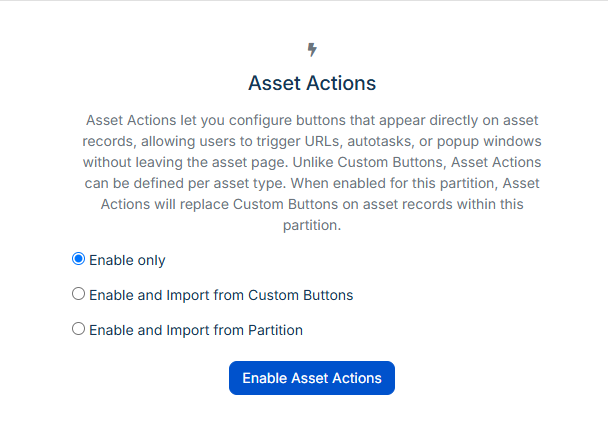
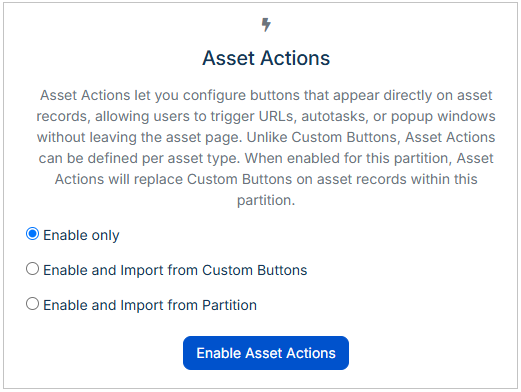
Asset Actions
* Updated images.
* Move actions on asset types from Common Actions to Manage Asset Types.
* Removed duplicated information.

diff --git a/servicemanager-config/assets/common-asset-actions.md b/servicemanager-config/assets/common-asset-actions.md
@@ -16,26 +16,9 @@ The Common Asset Actions is a collection of asset actions that are available for
 * Know how to access the [Service Manager Configuration](/servicemanager-config/index#access-service-manager-configuration).
 * Understand how [asset partitions](/servicemanager-config/assets/manage-partitions) and [asset types](/servicemanager-config/assets/manage-asset-types) are structured.
 
-## Action scope
-
-There are three kinds of scope. All three use the same configuration form — the difference is where you create them and what scope they are assigned. Scope is set when an action is created and cannot be changed afterwards.
-
-* **Partition-scoped actions:** Belong to the partition and can be linked to any asset type within it, regardless of class. Created and managed from the Asset Actions panel inside Manage Asset Types. These are sometimes called *common actions* because they are shared across multiple types. Use this scope for actions that should be available across many or all types in the partition.
-* **Class-scoped actions:** Belong to the partition and a specific asset class (for example, Computer or Software). They can only be linked to types of that class within the partition. Use this scope when an action only makes sense for a particular kind of asset.
-* **Type-specific actions:** Belong to a single asset type and are created directly from that type's **Actions** tab. They are not shared with any other type, and do not use the scope picker described above.
-
-### How scope affects linking
-
-The scope of an action controls which types appear when you link it:
-
-* **Partition-scoped actions** — the type picker and **Link with All Types** operate across all asset types in the partition.
-* **Class-scoped actions** — the type picker and **Link with All Types** show and link only types whose class matches the action's class. Types of other classes are excluded automatically.
-
-Similarly, when viewing a type's **Actions** tab and using **Link Common Action**, only actions relevant to that type are shown: partition-scoped actions for the type's partition, and class-scoped actions whose class matches the type's class. Actions from other partitions or other classes are never shown.
-
 ## Enabling Asset Actions
 
-Asset Actions must be enabled separately for each partition. Until enabled, the feature is inactive and Custom Buttons continue to appear for assets in that partition.
+Asset Actions must be enabled separately for each partition. Until enabled, the feature is inactive and [Custom Buttons](/servicemanager-user-guide/asset-management/asset-details#custom-buttons) continue to appear for assets in that partition.
 
 ![Enable Asset Actions](/_books/servicemanager-config/assets/images/asset-actions-enable.png)
 
@@ -43,44 +26,104 @@ Asset Actions must be enabled separately for each partition. Until enabled, the 
 
 1. Navigate to **Configuration > Service Manager > Assets > Manage Types**.
 1. Select the partition you want to enable Asset Actions for.
-1. In the right-hand panel, select **Asset Actions**. If the feature has not yet been enabled for this partition, the feature overview panel is shown.
+1. Below the partition name, select **Common Asset Actions**. If the feature has not yet been enabled for this partition, the feature overview panel is shown.
 1. Choose how you want to start, then select **Enable Asset Actions**:
-    * **Enable only** — enables the feature with an empty action list. You build your actions from scratch.
-    * **Enable and Import from Custom Buttons** — enables the feature and immediately imports your existing Custom Buttons as Asset Actions. See [Importing from Custom Buttons](#importing-from-custom-buttons) for details of how the import works.
-    * **Enable and Import from Partition** — enables the feature and copies all partition-scoped and class-scoped actions from another partition into this one. Select the source partition from the dropdown. Only partitions that already have actions are shown.
+    * **Enable only**: Enables the feature with an empty action list. You build your actions from scratch.
+    * **Enable and Import from Custom Buttons**: Enables the feature and immediately imports your existing Custom Buttons as Asset Actions. See [Importing from Custom Buttons](#importing-from-custom-buttons) for details of how the import works.
+    * **Enable and Import from Partition**: Enables the feature and copies all partition-scoped and class-scoped actions from another partition into this one. Select the source partition from the dropdown. Only partitions that already have actions are shown.
 
-Once enabled for a partition, Asset Actions are rendered in place of Custom Buttons on asset records within that partition. Custom Buttons are not deleted — they remain in the Custom Buttons configuration — but they no longer appear while Asset Actions is active.
+Once enabled for a partition, Asset Actions are rendered in place of Custom Buttons on asset records within that partition. Custom Buttons are not deleted. They remain in the Custom Buttons configuration, but they no longer appear while Asset Actions is active.
 
-### Resetting or disabling
+## Creating a common action
 
-From the Asset Actions panel toolbar, select **Clear All** to delete all partition-scoped and class-scoped actions for this partition and disable the feature. You are asked to type **DELETE** to confirm. Type-specific actions on individual asset types are not affected. After clearing, Custom Buttons resume appearing for assets in this partition.
+Start by selecting the partition where you want to create the action. Below the partition name, select the Common Asset Actions panel
+
+1. In the Common Asset Actions panel, select **+ Add Action**.
+1. The details form opens. Set the scope (see [Action scope](#scope)), then fill in the display fields, action type settings, and options.
+1. Select **Save**. The action is created and appears in the list.
+1. The action now exists but is not linked to any asset types. Go to the relevant asset type's **Actions** tab and use **Add > Link Common Action** to link it, or select **Edit** on the action and use the **Linked Types** tab to link it to one or more types.
+
+> **Note**: After saving, an action does not appear on any asset records until it is linked to one or more asset types.
+
+### Scope
+
+The scope determines where the action can be used. The scope can only be set when the **Asset Action** is being created and cannot be changed afterwards.
+
+* **Partition**: These actions belong to the entire partition and can be linked to any asset type within it, regardless of class. Use this scope for actions that should be available across many or all asset types in the partition.
+
+* **Class**: These actions belong to a specific class within the partition. They can only be linked to types of that class within the partition. Use this scope when an action only makes sense for a particular class of asset.
+
+> **Note**: Asset actions can also be created on an individual asset type.  These are not shared and can't be linked with any other asset type.
+
+### Display
+
+| Field | Description |
+| :--- | :--- |
+| Label | The text shown on the button or in the drop-down list. Required unless an icon is set. |
+| Description | Text shown when a user hovers over the button. Optional but recommended for less obvious actions. |
+| Button Style | The color style for the button: Default (gray), Primary (blue), Success (green), Danger (red), Warning (yellow), Info (light blue). |
+| Icon | An icon displayed alongside the button label, chosen using the icon picker. Optional. |
+
+### Action
+
+#### URL
+
+Opens a URL in a new browser tab. The URL can contain `{{fieldName}}` variable tokens. Use this to link to an external system, a deep link elsewhere in the platform, or any web address relevant to the asset.
+
+If the URL does not include a protocol (`://`), `http://` is automatically prepended at runtime.
+
+**Required:** URL field.
+
+The optional **Activity Message** field (under Options) allows a note to be written to the asset's activity stream each time this action is triggered. The message supports variable tokens and is written after the URL is opened.
+
+#### Auto Task
+
+Triggers an Auto Task when the user selects the button. The asset's URN is automatically passed as the `objectRefUrn` input parameter so the Auto Task knows which asset it is operating on.
+
+| Setting | Description |
+| :--- | :--- |
+| Auto Task Name *(required)* | The exact name of the Auto Task process to trigger. Select from the dropdown list of available processes. |
+| Open popup with Auto Task progress | Shows a modal window that tracks the Auto Task as it runs, matching the progress view shown by the existing Custom Buttons feature. |
+| Display Auto Task progress in timeline | Posts a link to the started Auto Task in the asset's activity stream, giving a record of when the action was triggered. |
+| Prompt for confirmation before running | Shows a confirmation prompt before the Auto Task starts. You can customize the prompt text (for example, *"Are you sure you want to retire this asset?"*). |
+| Additional input parameters | A table of extra key/value pairs passed as BPM input parameters alongside the standard asset fields. Values support `{{fieldName}}` variable tokens. Parameters named `objectRefUrn`, `entityApp`, `entityId`, or `entityName` are reserved and are always provided automatically — do not add them here. |
+
+#### Popup
+
+Opens a URL inside a modal popup window within the application, rather than in a new tab. The URL can contain `{{fieldName}}` variable tokens.
+
+| Setting | Description |
+| :--- | :--- |
+| URL *(required)* | The URL to load inside the popup. Supports asset field variable tokens. |
+| Popup Title | Title shown in the popup window header. Supports variable tokens. |
+| Size | Small, Medium, Large, or Custom. Choose Custom to set explicit width and height dimensions. Units supported: px, %, em, rem, vw, vh. |
+| Enable scrollbars | Whether the popup content area shows scrollbars when content overflows. |
+
+### Options
+
+| Option | Description |
+| :--- | :--- |
+| Add message to activity stream | When a URL action runs, writes an entry to the asset's activity stream. The message text is set in the **Activity Message** field below it and supports asset field variable tokens. |
+| Automatically link to new Asset Types | Partition-scoped and class-scoped actions only. When checked, this action is automatically linked whenever a new asset type is created within the partition. For class-scoped actions, it only links to types whose class matches. This setting also applies when types are moved into the partition from another partition. See [Moving types between partitions](#moving-types-between-partitions). |
+
+## Resetting or disabling
+
+From the Asset Actions panel toolbar, select **Clear All** to delete all actions for this partition and disable the feature. You are asked to type **DELETE** to confirm. Type-specific actions on individual asset types are not affected. After clearing, Custom Buttons resume appearing for assets in this partition.
 
 ::: warning
 **Clear All is permanent.** Clearing removes all partition-level and class-level actions for this partition. This cannot be undone. Type-specific actions on individual asset types are unaffected.
 :::
 
-## Managing partition actions
+## Managing actions
 
-Once Asset Actions is enabled for a partition, the Asset Actions panel shows a list of all partition-scoped and class-scoped actions for that partition. From here you can create, edit, delete, and import actions.
+Once Asset Actions is enabled for a partition, the Asset Actions panel shows a list of all actions for that partition. From here you can create, edit, delete, and import actions.
 
 ![Manage Partition Actions](/_books/servicemanager-config/assets/images/asset-actions-partition-action.png)
 
-### Creating an action
+### Action options
 
-1. In the Asset Actions panel, select **Add Action**.
-1. The inline edit form opens. Set the scope (see [Action scope](#action-scope)), then fill in the display fields, action type settings, and options.
-1. Select **Save**. The action is created and appears in the list.
-1. The action now exists but is not linked to any asset types. Go to the relevant asset type's **Actions** tab and use **Add > Link Common Action** to link it, or select **Edit** on the action and use the **Linked Types** tab to link it to one or more types.
-
-After saving, an action does not appear on any asset records until it is linked to one or more types — the exception is actions with **Automatically associate to new Asset Types** checked, which are linked automatically when a new type is created.
-
-### Editing a partition or class action
-
-Select **Edit** on any action row in the list. The full-page edit form opens in a new tab, showing a **Details** tab and a **Linked Types** tab. Changes to the configuration (label, URL, icon, and so on) are shared across all types that use the action. Scope (Partition or Class) is shown as read-only here — it's set when the action is first created and cannot be changed; delete the action and create a new one if you need a different scope.
-
-### Deleting an action
-
-Select **Remove** on any action row and confirm in the dialog. Deleting an action removes it from all linked asset types immediately. This cannot be undone.
+* **Editing an action**: Select the **Edit** icon or the name of the action on any row in the list. This opens the **Details** and **Linked Asset Types** options. Scope (Partition or Class) is shown as read-only as it can only be set on creation and can't be changed.
+* **Deleting an action**: Select the **Remove** icon on any action row and confirm in the dialog. Deleting an action removes it from all linked asset types immediately. This cannot be undone.
 
 ### Importing from Custom Buttons
 
@@ -97,147 +140,11 @@ A progress bar tracks the import. Once complete, the Import button is hidden for
 
 From the toolbar, select **Import > Import from Partition** — shown only when at least one other partition already has actions defined. Select the source partition and select **Import**. All partition-scoped and class-scoped actions from the source are copied into this partition. Copied actions are not linked to any types automatically — link them as needed after the import.
 
-## Configuring an action
-
-The action form — both the inline partition panel editor and the full-page editor opened from the edit button — contains three configuration sections: Display, Action, and Options.
-
-![Configure Actions](/_books/servicemanager-config/assets/images/asset-actions-configure-action.png)
-
-### Display
-
-| Field | Description |
-| :--- | :--- |
-| Scope | Shown when creating a new action. Select **Partition** or **Class**; for Class, also select the asset class from the dropdown that appears. Read-only when editing an existing action. |
-| Label *(required unless an icon is set)* | The text shown on the button. |
-| Description | Text shown when a user hovers over the button. Optional but recommended for less obvious actions. |
-| Button Style | The color style for the button: Default (gray), Primary (blue), Success (green), Danger (red), Warning (yellow), Info (light blue). |
-| Icon | A FontAwesome icon displayed alongside the button label, chosen using the icon picker. Optional. |
-
-### Action
-
-Select the action type and complete the fields that appear for it. See [Action types](#action-types) for details on each type.
-
-### Options
-
-| Option | Description |
-| :--- | :--- |
-| Add message to activity stream | When a URL action runs, writes an entry to the asset's activity stream. The message text is set in the **Activity Message** field below it and supports asset field variable tokens. |
-| Automatically associate to new Asset Types | Partition-scoped and class-scoped actions only. When checked, this action is automatically linked whenever a new asset type is created within the partition. For class-scoped actions, it only links to types whose class matches. This setting also applies when types are moved into the partition from another partition — see [Moving types between partitions](#moving-types-between-partitions). |
-
 ### Using asset field variables
 
 In URL and message fields, select the **Insert variable** button next to the input and select a field from the dropdown. This inserts a token in the format `{{fieldName}}` — for example `{{h_pk_asset_id}}` to pass the asset's unique ID to an external system, or `{{h_name}}` to include the asset name in an activity stream message. At runtime the platform replaces the token with the actual value from the asset record being viewed.
 
 If an action is class-scoped and a field variable you have used is not available for the selected class, a warning panel appears in the form highlighting the affected fields. Review and update these before saving to avoid broken substitutions at runtime.
-
-## Action types
-
-### URL
-
-Opens a URL in a new browser tab. The URL can contain `{{fieldName}}` variable tokens. Use this to link to an external system, a deep link elsewhere in the platform, or any web address relevant to the asset.
-
-If the URL does not include a protocol (`://`), `http://` is automatically prepended at runtime.
-
-**Required:** URL field.
-
-The optional **Activity Message** field (under Options) allows a note to be written to the asset's activity stream each time this action is triggered. The message supports variable tokens and is written after the URL is opened.
-
-### Auto Task
-
-Triggers an Auto Task when the user selects the button. The asset's URN is automatically passed as the `objectRefUrn` input parameter so the Auto Task knows which asset it is operating on.
-
-| Setting | Description |
-| :--- | :--- |
-| Auto Task Name *(required)* | The exact name of the Auto Task process to trigger. Select from the dropdown list of available processes. |
-| Open popup with Auto Task progress | Shows a modal window that tracks the Auto Task as it runs, matching the progress view shown by the existing Custom Buttons feature. |
-| Display Auto Task progress in timeline | Posts a link to the started Auto Task in the asset's activity stream, giving a record of when the action was triggered. |
-| Prompt for confirmation before running | Shows a confirmation prompt before the Auto Task starts. You can customize the prompt text (for example, *"Are you sure you want to retire this asset?"*). |
-| Additional input parameters | A table of extra key/value pairs passed as BPM input parameters alongside the standard asset fields. Values support `{{fieldName}}` variable tokens. Parameters named `objectRefUrn`, `entityApp`, `entityId`, or `entityName` are reserved and are always provided automatically — do not add them here. |
-
-### Popup
-
-Opens a URL inside a modal popup window within the application, rather than in a new tab. The URL can contain `{{fieldName}}` variable tokens.
-
-| Setting | Description |
-| :--- | :--- |
-| URL *(required)* | The URL to load inside the popup. Supports asset field variable tokens. |
-| Popup Title | Title shown in the popup window header. Supports variable tokens. |
-| Size | Small, Medium, Large, or Custom. Choose Custom to set explicit width and height dimensions. Units supported: px, %, em, rem, vw, vh. |
-| Enable scrollbars | Whether the popup content area shows scrollbars when content overflows. |
-
-## Actions on an asset type
-
-Navigate to **Manage Types**, select a type, and select the **Actions** tab. This tab has two panels:
-
-![Action Tab](/_books/servicemanager-config/assets/images/asset-actions-action-tab.png)
-
-* **Preview panel** (top) — search for an asset of this type using the autocomplete picker and see a live preview of how the action buttons render on that asset's record. Toggle between **Full** and **Compact** width to preview both the expanded button layout and the collapsed "Actions" dropdown.
-* **Action list** (below) — the full list of actions and groups for this type, in their current display order. Drag rows to reorder.
-
-### Adding an action
-
-Select **Add**. A dropdown appears with three options:
-
-* **Create Type Action** — opens the action configuration popup. Fill in the form and save to create a new action that belongs exclusively to this asset type.
-* **Link Common Action** — opens a picker showing common actions that can be linked to this type. The list is filtered automatically to only show partition-scoped actions belonging to this type's partition, and class-scoped actions whose class matches this type's class. Actions from other partitions or that belong to a different class are never shown. Select one or more and select **Link Selected**. A progress bar tracks the operation when linking multiple actions.
-* **Add Group** — prompts for a group name and creates a new action group. See [Action groups and order](#action-groups-and-order).
-
-### Editing an action on a type
-
-Select **Edit** on any action row:
-
-* **Type-specific actions** — the configuration popup opens inline. Changes affect only this type.
-* **Partition-scoped and class-scoped actions** — selecting **Edit** opens the full-page edit form in a new browser tab. You are editing the shared configuration that every linked type uses. Ordering, grouping, and position on this specific type are controlled separately, from the action list on the type's Actions tab.
-
-### Linking visibility
-
-A partition-scoped or class-scoped action only appears on an asset type if it has been explicitly linked to that type. Linking creates a position record; without one, the action is not visible on those assets.
-
-The **Automatically associate to new Asset Types** toggle (on the action form, under Options) controls what happens when a new asset type is created:
-
-* **Checked** — a position record is automatically created for this action on the new type. The action is visible immediately. For class-scoped actions, auto-association only applies when the new type's class matches the action's class.
-* **Unchecked** — no automatic link. The action does not appear on the new type until explicitly linked from the type's Actions tab.
-
-The **Linked Types** tab on the full-page action editor shows all types currently linked to the action. Three toolbar operations are available:
-
-* **Link to Type** — opens a type picker to link the action to one or more types. For partition-scoped actions, all types in the partition are shown (filterable by category). For class-scoped actions, only types whose class matches the action's class are shown.
-* **Link with All Types** — links the action to every eligible type not already linked. For partition-scoped actions, this covers all types in the partition. For class-scoped actions, only types of the matching class are linked.
-* **Remove from All Types** — removes all links. The action no longer appears on any type.
-
-### Removing an action from a type
-
-Select the **Unlink** / **Delete** button on an action row and confirm in the dialog. The behavior differs by action scope:
-
-* **Type-specific actions** — permanently deleted.
-* **Partition-scoped and class-scoped actions** — unlinked from this type only. The action continues to exist and remains visible on other types it is linked to.
-
-## Action groups and order
-
-### Action groups
-
-Groups let you organize multiple actions into a single dropdown button on the asset record. Instead of showing several individual buttons, the asset displays one button with the group's name; selecting it opens a menu listing all actions in that group.
-
-![Action Groups](/_books/servicemanager-config/assets/images/asset-actions-action-group.png)
-
-Groups are per-type: the same action can be in different groups (or no group) on different asset types. Grouping is configured from each type's **Actions** tab and does not affect other types.
-
-**To create a group:**
-
-1. On the type's **Actions** tab, select **Add** and choose **Add Group**.
-1. Enter the group name. This becomes the label on the dropdown button on the asset record.
-1. Drag existing action rows into the group, or use **Add** within the group to create or link actions directly inside it.
-
-**To rename a group:** Select **Rename** on the group header, enter a new name in the inline input, and press Enter or select away. The change saves immediately.
-
-**To delete a group:** Select **Delete** on the group header and confirm. Actions inside the group are not deleted — they move out of the group and appear ungrouped in the list.
-
-### Action order
-
-The order of actions on the asset record is set per type from the **Actions** tab. Each action row and each group header has a drag handle on the left. Drag a row to a new position; the updated order saves automatically when you release it.
-
-You can drag actions between groups (including out of a group entirely), and drag groups relative to one another and to ungrouped actions. Each type has its own completely independent action order — the same action can be first on one type and last on another, so configure ordering separately on each type's Actions tab.
-
-When you create or link an action, it is placed at the end of the list for that type. Drag it to the correct position once it appears.
 
 ## Moving types between partitions
 

diff --git a/servicemanager-config/assets/manage-asset-types.md b/servicemanager-config/assets/manage-asset-types.md
@@ -117,9 +117,60 @@ For each field, on a per Asset Type basis, you can configure:
 
 Asset Actions tab contains configurable buttons that appear on asset records. When selected, an action on an asset can open a URL in a popup or in a new browser tab, or they can trigger an [Auto Task](/servicemanager-config/customize/service-manager-auto-tasks), all within the context of the asset being viewed.
 
+Navigate to **Manage Types**, select a type, and select the **Actions** tab.
+
+![Action Tab](/_books/servicemanager-config/assets/images/asset-actions-action-tab.png)
+
+* **Preview panel** (top) — search for an asset of this type using the autocomplete picker and see a live preview of how the action buttons render on that asset's record. Toggle between **Full** and **Compact** width to preview both the expanded button layout and the collapsed "Actions" dropdown.
+* **Action list** (below) — the full list of actions and groups for this type, in their current display order. Drag rows to reorder.
+
 ### Adding an action
 
-You can create a new action using the `+ Add` button or you can select an existing action from the [Common Asset Actions](/servicemanager-config/assets/common-asset-actions).
+Select **Add**. A dropdown appears with three options:
+
+* **Create Action** — opens the action configuration popup. Fill in the form and save to create a new action that belongs exclusively to this asset type.
+* **Link Common Actions** — opens a picker showing common actions that can be linked to this type. The list is filtered automatically to only show partition-scoped actions belonging to this type's partition, and class-scoped actions whose class matches this type's class. Actions from other partitions or that belong to a different class are never shown. Select one or more and select **Link Selected**. A progress bar tracks the operation when linking multiple actions.
+* **Add Group** — prompts for a group name and creates a new action group.
+
+### Editing an action on a type
+
+Select **Edit** on any action row:
+
+* **Type-specific actions** — the configuration popup opens inline. Changes affect only this type.
+* **Partition-scoped and class-scoped actions** — selecting **Edit** opens the full-page edit form in a new browser tab. You are editing the shared configuration that every linked type uses. Ordering, grouping, and position on this specific type are controlled separately, from the action list on the type's Actions tab.
+
+### Removing an action from a type
+
+Select the **Unlink** / **Delete** button on an action row and confirm in the dialog. The behavior differs by action scope:
+
+* **Type-specific actions** — permanently deleted.
+* **Common actions** — unlinked from this type only. The action continues to exist and remains visible on other types it is linked to.
+
+### Action groups
+
+Groups let you organize multiple actions into a single dropdown button on the asset record. Instead of showing several individual buttons, the asset displays one button with the group's name; selecting it opens a menu listing all actions in that group.
+
+![Action Groups](/_books/servicemanager-config/assets/images/asset-actions-action-group.png)
+
+Groups are per-type: the same action can be in different groups (or no group) on different asset types. Grouping is configured from each type's **Actions** tab and does not affect other types.
+
+**To create a group:**
+
+1. On the type's **Actions** tab, select **Add** and choose **Add Group**.
+1. Enter the group name. This becomes the label on the dropdown button on the asset record.
+1. Drag existing action rows into the group, or use **Add** within the group to create or link actions directly inside it.
+
+**To rename a group:** Select **Rename** on the group header, enter a new name in the inline input, and press Enter or select away. The change saves immediately.
+
+**To delete a group:** Select **Delete** on the group header and confirm. Actions inside the group are not deleted — they move out of the group and appear ungrouped in the list.
+
+### Action order
+
+The order of actions on the asset record is set per type from the **Actions** tab. Each action row and each group header has a drag handle on the left. Drag a row to a new position; the updated order saves automatically when you release it.
+
+You can drag actions between groups (including out of a group entirely), and drag groups relative to one another and to ungrouped actions. Each type has its own completely independent action order — the same action can be first on one type and last on another, so configure ordering separately on each type's Actions tab.
+
+When you create or link an action, it is placed at the end of the list for that type. Drag it to the correct position once it appears.
 
 ## Archiving asset types and assets
 
